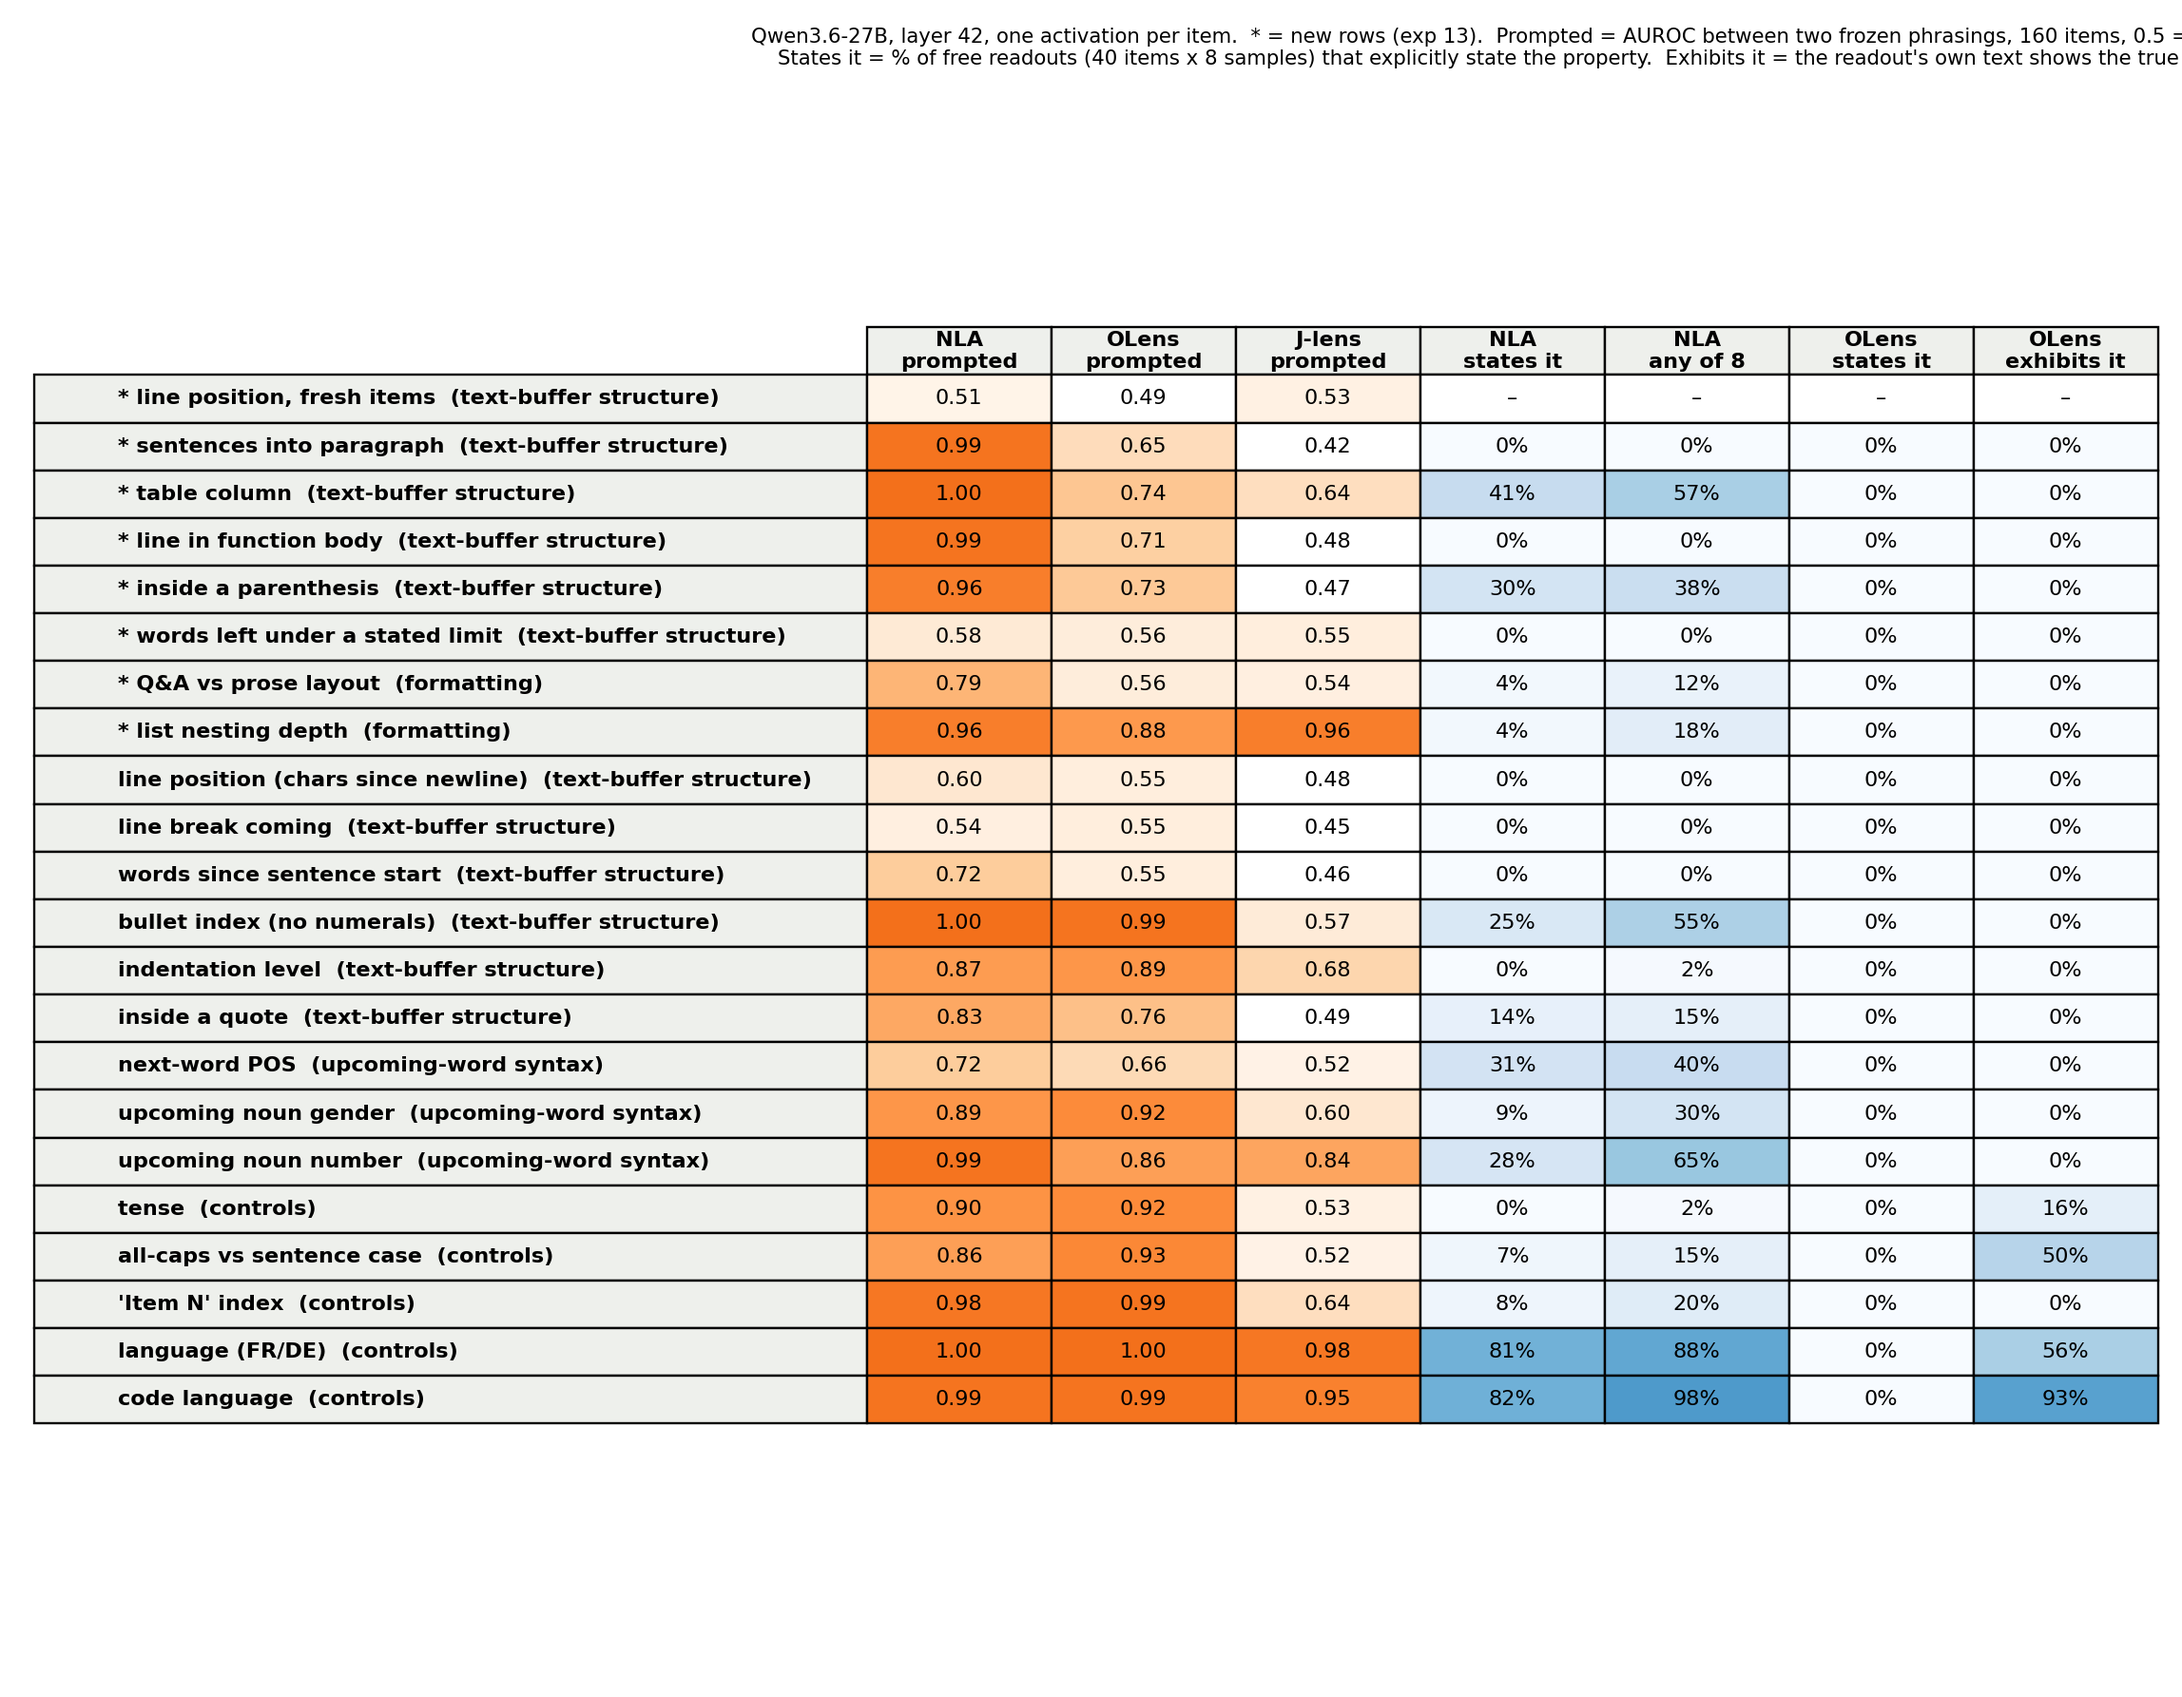
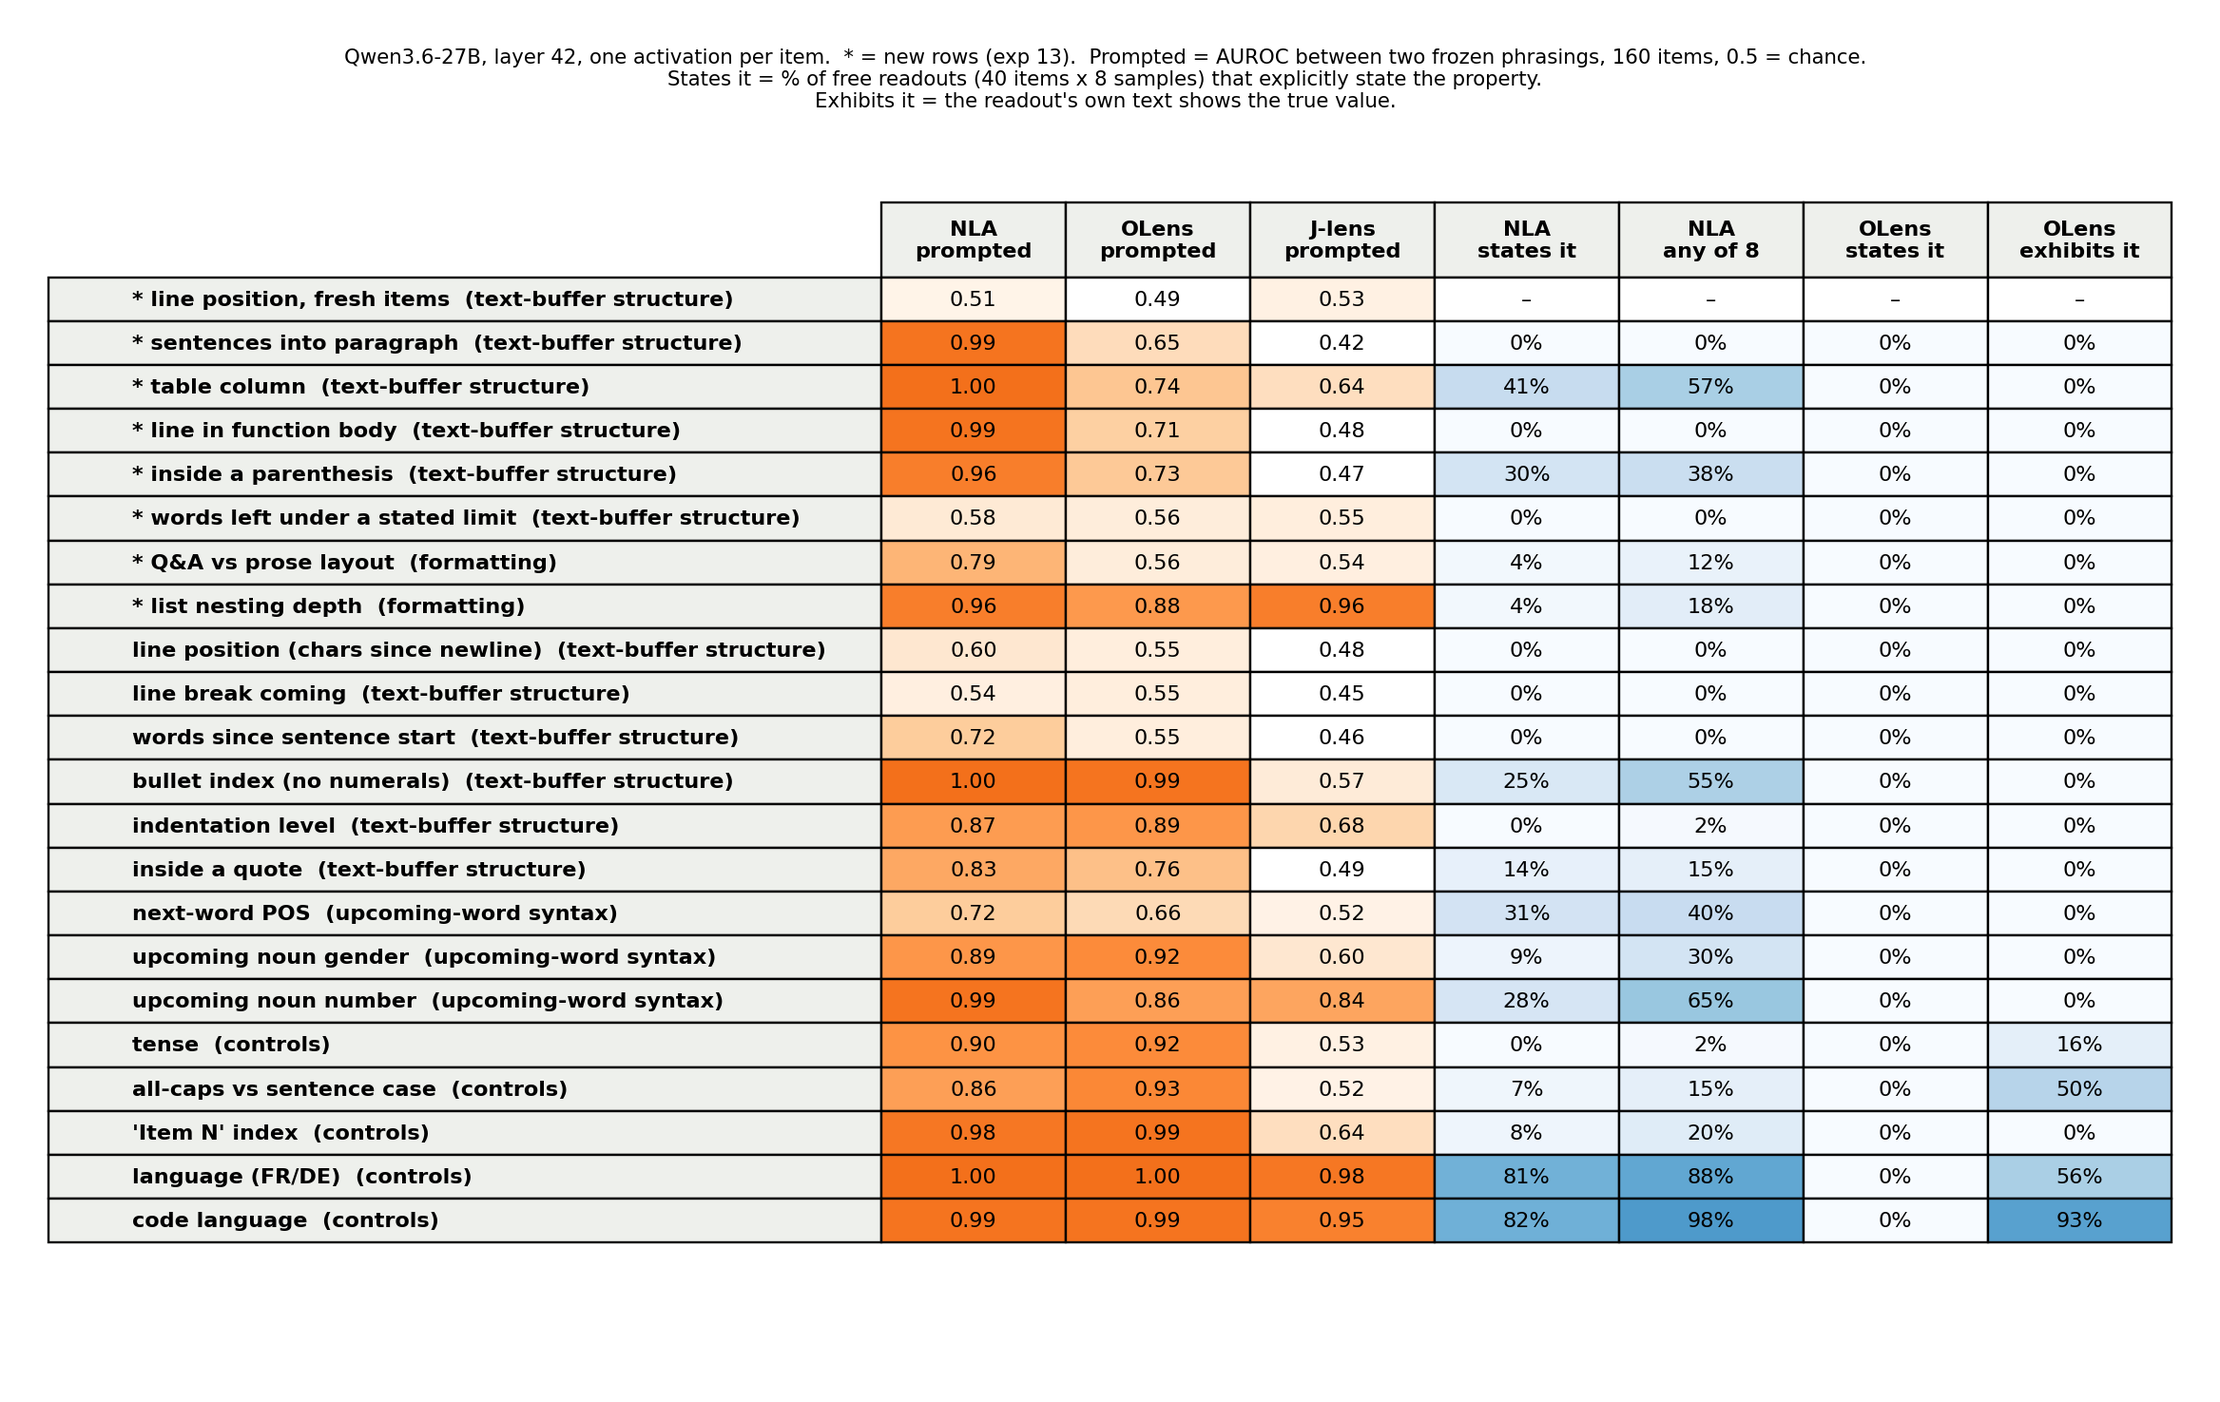
feat: exp 13 presentation table (--plain): rows grouped by concept type, no new-row markers; fix clipped title and header

diff --git a/experiments/13_new_rows/combine13.py b/experiments/13_new_rows/combine13.py
@@ -58,29 +58,50 @@ def fmt(x: float, pct: bool) -> str:
     return f"{100 * x:.0f}%" if pct else f"{x:.2f}"
 
 
-def main() -> None:
+GROUP_ORDER = ("text-buffer structure", "formatting", "upcoming-word syntax", "controls")
+
+
+def presentation_order(rows: list[dict]) -> list[dict]:
+    """Group rows by concept type; keep the fresh line-position row next to the original."""
+    by_feat = {r["feature"]: r for r in rows}
+    fresh = by_feat.pop("nj1_col_fresh", None)
+    ordered = sorted(by_feat.values(), key=lambda r: GROUP_ORDER.index(r["group"].split(" (")[0]))
+    if fresh is None:
+        return ordered
+    i = next(k for k, r in enumerate(ordered) if r["feature"] == "nj1_col")
+    return ordered[: i + 1] + [fresh] + ordered[i + 1 :]
+
+
+def main(mark_new: bool = True) -> None:
+    suffix = "" if mark_new else "_plain"
+    mk = (lambda r: r["new"]) if mark_new else (lambda r: False)
     old = [{**r, "new": False} for r in json.loads((E12 / "results" / "combined.json").read_text())]
     new = rows13()
     rows = new + old
-    (HERE / "results" / "combined_all.json").write_text(json.dumps(rows, indent=1))
+    if mark_new:
+        (HERE / "results" / "combined_all.json").write_text(json.dumps(rows, indent=1))
+    else:
+        rows = presentation_order(rows)
     cols = [("nla_auroc", False), ("ol_auroc", False), ("jlens_auroc", False), ("nla_stated", True), ("nla_any8", True),
             ("ol_stated", True), ("ol_exhibited", True)]
     hdr = ("| concept type | group | NLA prompted | OLens prompted | J-lens prompted | NLA states it | NLA any-of-8 | "
            "OLens states it | OLens exhibits it |\n|---|---|---|---|---|---|---|---|---|\n")
-    body = "".join(f"| {'**' if r['new'] else ''}{r['name']}{'**' if r['new'] else ''} | {r['group']} | "
+    body = "".join(f"| {'**' if mk(r) else ''}{r['name']}{'**' if mk(r) else ''} | {r['group']} | "
                    + " | ".join(fmt(r[c], p) for c, p in cols) + " |\n" for r in rows)
-    (HERE / "results" / "combined_all.md").write_text(hdr + body)
+    (HERE / "results" / f"combined_all{suffix}.md").write_text(hdr + body)
     print(hdr + body)
     labels = ["NLA\nprompted", "OLens\nprompted", "J-lens\nprompted", "NLA\nstates it", "NLA\nany of 8", "OLens\nstates it", "OLens\nexhibits it"]
     cell = [[fmt(r[c], p) for c, p in cols] for r in rows]
-    fig, ax = plt.subplots(figsize=(13.5, 10.5))
+    fig, ax = plt.subplots(figsize=(13.5, 8.4))
     ax.axis("off")
-    t = ax.table(cellText=cell, rowLabels=[("* " if r["new"] else "") + f"{r['name']}  ({r['group'].split(' (')[0]})" for r in rows],
-                 colLabels=labels, loc="center", cellLoc="center")
+    t = ax.table(cellText=cell, rowLabels=[("* " if mk(r) else "") + f"{r['name']}  ({r['group'].split(' (')[0]})" for r in rows],
+                 colLabels=labels, loc="upper center", cellLoc="center")
     t.auto_set_font_size(False); t.set_fontsize(9.5); t.scale(1, 1.45)
     for (i, j), c in t.get_celld().items():
         if i == 0 or j < 0:
             c.set_text_props(weight="bold"); c.set_facecolor("#EEF0EC")
+            if i == 0:
+                c.set_height(c.get_height() * 1.7)
             continue
         s = cell[i - 1][j]
         if s == "–":
@@ -89,12 +110,16 @@ def main() -> None:
             v = float(s); c.set_facecolor(plt.cm.Oranges(max(0.0, (v - 0.5) / 0.5) * 0.6) if v > 0.5 else "#FFFFFF")
         else:
             c.set_facecolor(plt.cm.Blues(float(s.rstrip("%")) / 100 * 0.6))
-    ax.set_title("Qwen3.6-27B, layer 42, one activation per item.  * = new rows (exp 13).  Prompted = AUROC between two "
-                 "frozen phrasings, 160 items, 0.5 = chance.\nStates it = % of free readouts (40 items x 8 samples) that "
-                 "explicitly state the property.  Exhibits it = the readout's own text shows the true value.", fontsize=9)
-    fig.tight_layout(); fig.savefig(HERE / "results" / "combined_all.png", dpi=170)
+    note = "* = new rows (exp 13).  " if mark_new else ""
+    fig.suptitle("Qwen3.6-27B, layer 42, one activation per item.  " + note
+                 + "Prompted = AUROC between two frozen phrasings, 160 items, 0.5 = chance.\n"
+                 "States it = % of free readouts (40 items x 8 samples) that explicitly state the property.\n"
+                 "Exhibits it = the readout's own text shows the true value.", fontsize=9, y=0.98)
+    fig.tight_layout(rect=(0, 0, 1, 0.97))
+    fig.savefig(HERE / "results" / f"combined_all{suffix}.png", dpi=170, bbox_inches="tight", pad_inches=0.3)
     print("png written")
 
 
 if __name__ == "__main__":
-    main()
+    import sys
+    main(mark_new="--plain" not in sys.argv)

diff --git a/experiments/13_new_rows/results/combined_all_plain.md b/experiments/13_new_rows/results/combined_all_plain.md
@@ -1,0 +1,24 @@
+| concept type | group | NLA prompted | OLens prompted | J-lens prompted | NLA states it | NLA any-of-8 | OLens states it | OLens exhibits it |
+|---|---|---|---|---|---|---|---|---|
+| sentences into paragraph | text-buffer structure | 0.99 | 0.65 | 0.42 | 0% | 0% | 0% | 0% |
+| table column | text-buffer structure | 1.00 | 0.74 | 0.64 | 41% | 57% | 0% | 0% |
+| line in function body | text-buffer structure | 0.99 | 0.71 | 0.48 | 0% | 0% | 0% | 0% |
+| inside a parenthesis | text-buffer structure | 0.96 | 0.73 | 0.47 | 30% | 38% | 0% | 0% |
+| words left under a stated limit | text-buffer structure | 0.58 | 0.56 | 0.55 | 0% | 0% | 0% | 0% |
+| line position (chars since newline) | text-buffer structure | 0.60 | 0.55 | 0.48 | 0% | 0% | 0% | 0% |
+| line position, fresh items | text-buffer structure | 0.51 | 0.49 | 0.53 | – | – | – | – |
+| line break coming | text-buffer structure | 0.54 | 0.55 | 0.45 | 0% | 0% | 0% | 0% |
+| words since sentence start | text-buffer structure | 0.72 | 0.55 | 0.46 | 0% | 0% | 0% | 0% |
+| bullet index (no numerals) | text-buffer structure | 1.00 | 0.99 | 0.57 | 25% | 55% | 0% | 0% |
+| indentation level | text-buffer structure | 0.87 | 0.89 | 0.68 | 0% | 2% | 0% | 0% |
+| inside a quote | text-buffer structure | 0.83 | 0.76 | 0.49 | 14% | 15% | 0% | 0% |
+| Q&A vs prose layout | formatting | 0.79 | 0.56 | 0.54 | 4% | 12% | 0% | 0% |
+| list nesting depth | formatting | 0.96 | 0.88 | 0.96 | 4% | 18% | 0% | 0% |
+| next-word POS | upcoming-word syntax | 0.72 | 0.66 | 0.52 | 31% | 40% | 0% | 0% |
+| upcoming noun gender | upcoming-word syntax | 0.89 | 0.92 | 0.60 | 9% | 30% | 0% | 0% |
+| upcoming noun number | upcoming-word syntax | 0.99 | 0.86 | 0.84 | 28% | 65% | 0% | 0% |
+| tense | controls (in-workspace) | 0.90 | 0.92 | 0.53 | 0% | 2% | 0% | 16% |
+| all-caps vs sentence case | controls (in-workspace) | 0.86 | 0.93 | 0.52 | 7% | 15% | 0% | 50% |
+| 'Item N' index | controls (in-workspace) | 0.98 | 0.99 | 0.64 | 8% | 20% | 0% | 0% |
+| language (FR/DE) | controls (in-workspace) | 1.00 | 1.00 | 0.98 | 81% | 88% | 0% | 56% |
+| code language | controls (in-workspace) | 0.99 | 0.99 | 0.95 | 82% | 98% | 0% | 93% |
